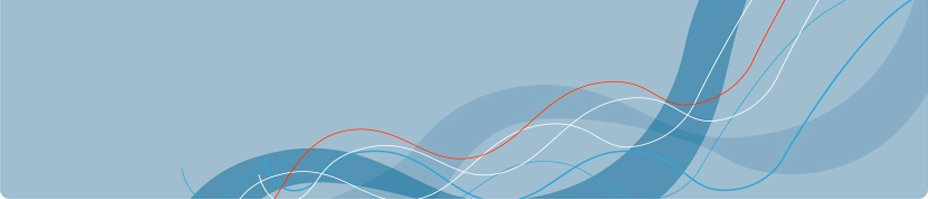
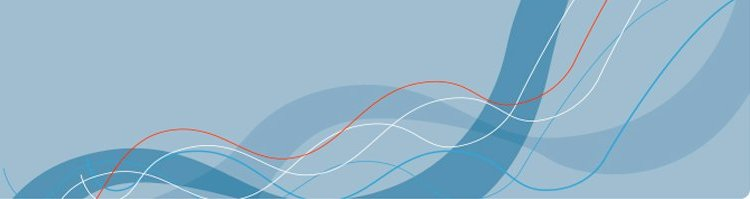
Improve layout of WSVD template

Changed region(s): [[0.0, 0.0, 0.9813, 1.0], [0.92, 0.7538, 0.9507, 0.7839]]

diff --git a/web/templates/wsvd/css/template.css b/web/templates/wsvd/css/template.css
@@ -9,6 +9,24 @@ img {
     border:0;
 }
 
+h1 {
+    color:#006c96;
+}
+
+h2 {
+    color:#006c96;
+}
+
+h3 {
+    color:#006c96;
+}
+
+.contentheading {
+    font-size:15pt;
+    color:#006c96;
+    font-weight:bold;
+}
+
 .logo {
     background-image:url(../images/flagge.jpg);
     background-repeat:no-repeat;
@@ -21,7 +39,7 @@ img {
 .title {
     float:right;
     font-size:12pt;
-    margin:39px 22px 0 0;
+    margin:30px 22px 0 0;
 }
 
 .title1 {
@@ -37,54 +55,22 @@ img {
 }
 
 .menu_container {
-    width:950px;
+    width:930px;
     height:48px;
     clear:both;
-}
-
-.menu_left {
-    background:transparent url(../images/menu_left.jpg) no-repeat scroll 0 0;
     margin:0 10px;
-    /*
-    float:left;
-    height:48px;
-    width:950px;
-    */
-}
-
-/*
-.menu {
-    color:white;
-    background-color:#006c96;
-    height:46px;
-    
-    text-align:center;
-    
-}
-*/
-
-.menu_right {
-    background:transparent url(../images/menu_right.jpg) no-repeat scroll 100% 0;
-    padding:0 9px;
-    /*
-    height:48px;
-    width:8px;
-    */
+    position:relative;
 }
 
 #main_menu {
     color:white;
     background-color:#006c96;
-    height:23px;
-    /*
-  white-space: nowrap;
-  float: left;
-  */
+    height:24px;
 }
 
 #main_menu ul {
   margin: 0;
-  padding: 0 10px;
+  padding: 0 25px;
   list-style:none;
 }
 
@@ -99,47 +85,35 @@ img {
 
 #main_menu a {
   font-family: Arial, Helvetica, sans-serif;
-  font-size: 9pt;
+  font-size: 8.5pt;
   float:left;
   color: white;
   text-decoration: none;
 }
 
-
 #main_menu a#active_menu-nav {
 	background-position: 0 0;
 }
-/*
-#main_menu #current span {
-    font-weight:bold;
-}
-*/
+
 #main_menu span {
     color:white;
     font-weight: normal;
 }
 
 #sub_menu {
-    /*
-  white-space: nowrap;
-  float: left;
-  
-    color:white;
-    */
-    height:23px;
+    height:24px;
     background-color:#006c96;
-
 }
 
 #sub_menu ul {
   margin: 0;
-  padding: 1px 10px;
+  padding: 0;
   list-style:none;
 }
 
 #sub_menu li {
 	float: left;
-	background: url(../images/menu_separator.jpg) top right no-repeat;
+	background: url(../images/submenu_separator.jpg) top right no-repeat;
 	margin: 2px 0 0 0;
 	padding: 0 13px;
     color:white;
@@ -147,10 +121,8 @@ img {
 
 #sub_menu a {
   font-family: Arial, Helvetica, sans-serif;
-  font-size: 9pt;
-  /* font-weight: bold; */
+  font-size: 8.5pt;
   float:left;
-  /* display:block;*/
   color: white;
   text-decoration: none;
 }
@@ -184,18 +156,14 @@ img {
     background-color:#a0bed0; 
     top:0px;
     left:0px;
-    /* z-index:10;*/
-    /* background:transparent url(testbild1.jpg) no-repeat scroll 0 0; */
     margin:10px;
-    /*padding:10px;*/
-    /*width:950px;*/
     clear:both;
 }
 
 .images {
     /* For IE < 8 */
     zoom:1;
-    width:304px;
+    width:303px;
     float:left;
     overflow:hidden;
 }
@@ -211,14 +179,14 @@ img {
 .frontpage_top {
     background-color: white;
     width:930px;
-    height:199px;
+    height:200px;
     margin-bottom:10px;
 }
 
 .frontpage_bottom {
-    background: white url(../images/waves.jpg) no-repeat scroll 0 0;
+    background: #9fbdcf url(../images/waves.jpg) no-repeat scroll right bottom;
     width:930px;
-    height:199px;
+    height:200px;
 }
 
 .moduletable_left {
@@ -227,7 +195,7 @@ img {
 
 .moduletable_middle {
     float:left;
-    margin:0 8px;
+    margin:0 10px;
 }
 
 .moduletable_right {
@@ -236,19 +204,13 @@ img {
 
 .content {
     background: #dbe7ed url(../images/content_back.jpg) no-repeat scroll right bottom;
-    /*float:right;*/
     overflow:hidden;
     padding:25px 30px;
-    /*padding:10px;*/
-    /*width:950px;*/
-    /*width:556px;*/
     min-height:650px
 }
 
 .content_background {
     background-color:white;
-    /*width:626px;*/
-    /*float:right;*/
     overflow:hidden;
     padding-left:10px
 }

diff --git a/web/templates/wsvd/index.php b/web/templates/wsvd/index.php
@@ -2,22 +2,59 @@
 <!DOCTYPE html PUBLIC "-//W3C//DTD XHTML 1.0 Transitional//EN" "http://www.w3.org/TR/xhtml1/DTD/xhtml1-transitional.dtd">
 <html xmlns="http://www.w3.org/1999/xhtml" xml:lang="<?php echo $this->language; ?>" lang="<?php echo $this->language; ?>" >
     <head>
-        <!-- <jdoc:include type="head" /> -->
+        <jdoc:include type="head" />
         <link rel="stylesheet" href="<?php echo $this->baseurl ?>/templates/system/css/system.css" type="text/css" />
         <link rel="stylesheet" href="<?php echo $this->baseurl ?>/templates/system/css/general.css" type="text/css" />
         <link rel="stylesheet" href="<?php echo $this->baseurl ?>/templates/wsvd/css/template.css" type="text/css" />
-        <?php 
+        <?php
             $home = 0;
             $menuitem = & JSite::getMenu();
             if ($menuitem->getActive() == $menuitem->getDefault()) {
                 $home = "1";
             }
         ?>
-        <?php if ($home): ?>
+        <?php if (($home) || ($this->countModules('left') == 0)): ?>
             <style type="text/css">
                 .content_background {padding-left:0;}
             </style>
         <?php endif; ?>
+        <script type="text/javascript">
+        <!--
+            function getElementByClass(className) {
+                var allHTMLTags = document.getElementsByTagName("li");
+                var length = allHTMLTags.length;
+                for (var i=0; i < length; i++) {
+                    if (allHTMLTags[i].className.indexOf(className) != -1) {
+                        return allHTMLTags[i];
+                    }
+                }
+            }
+            function moveSubMenu(element) {
+                var liElements = element.getElementsByTagName("span");
+                for (var i = 0; i < liElements.length; i++) {
+                    liElements[i].style.fontWeight = "bold";
+                }
+                var browser = navigator.appName;
+                var verString = navigator.appVersion;
+                var verIndex = verString.indexOf("MSIE ");
+                if(verIndex != -1) {
+                    version = verString.substring(verIndex + 5, verIndex + 6);
+                } 
+                var paddingX = element.offsetLeft;
+                var subMenu = document.getElementById('sub_menu');
+                subMenu.style.padding = "0px " + paddingX + "px";
+            }
+
+            function positionSubMenu() {
+                //print("In positionSubMenu()");
+                var parentString = "parent active ";
+                var element = getElementByClass(parentString);
+                if(element != null) {
+                    moveSubMenu(element);
+                }
+            }
+        -->
+        </script>
     </head>
     <body>
         <div class="page">
@@ -27,54 +64,22 @@
                 <div class="title2">Rudergesellschaft von 1893 e.V.</div>
             </div>
             <div class="menu_container">
-                <div class="menu_left">
-                    <div class="menu_right">
                         <div id="main_menu">
                             <jdoc:include type="modules" name="user3" />
                         </div>
                         <div id="sub_menu">
                             <script type="text/javascript">
                             <!--
-                                function getElementByClass(className) {
-                                    var allHTMLTags = document.getElementsByTagName("li");
-                                    var length = allHTMLTags.length;
-                                    for (var i=0; i < length; i++) {
-                                        if (allHTMLTags[i].className.indexOf(className) != -1) {
-                                            return allHTMLTags[i];
-                                        }
-                                    }
-                                }
-                                function positionSubMenu(element) {
-                                    var liElements = element.getElementsByTagName("span");
-                                    for (var i = 0; i < liElements.length; i++) {
-                                        liElements[i].style.fontWeight = "bold";
-                                    }
-                                    var browser = navigator.appName;
-                                    var verString = navigator.appVersion;
-                                    var verIndex = verString.indexOf("MSIE ");
-                                    if(verIndex != -1) {
-                                        version = verString.substring(verIndex + 5, verIndex + 6);
-                                    } 
-                                    var paddingX = element.offsetLeft - 29;
-                                    if((browser.indexOf("Explorer") != -1) && (version < 8)) {
-                                        paddingX += 19;
-                                    }
-                                    //document.write("Padding X: " + paddingX);
-                                    //paddingX = document.getElementById('current').offsetLeft - 27;
-                                    var subMenu = document.getElementById('sub_menu');
-                                    subMenu.style.padding = "0px " + paddingX + "px";
-                                }
-                                var parentString = "parent active ";
-                                var element = getElementByClass(parentString);
-                                if(element != null) {
-                                    positionSubMenu(element);
-                                }
+                                //print("Try to position...");
+                                positionSubMenu();
                             -->
                             </script>
                             <jdoc:include type="modules" name="user4" />
                         </div>
-                    </div>
-                </div>
+                <div class="corner_top_left"></div>
+                <div class="corner_top_right"></div>
+                <div class="corner_bottom_left"></div>
+                <div class="corner_bottom_right"></div>
             </div>
             <div class="content_area">
                 <?php if (! $home) : ?>
